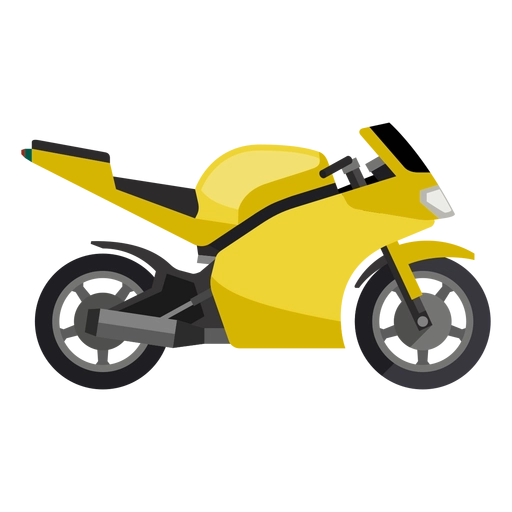
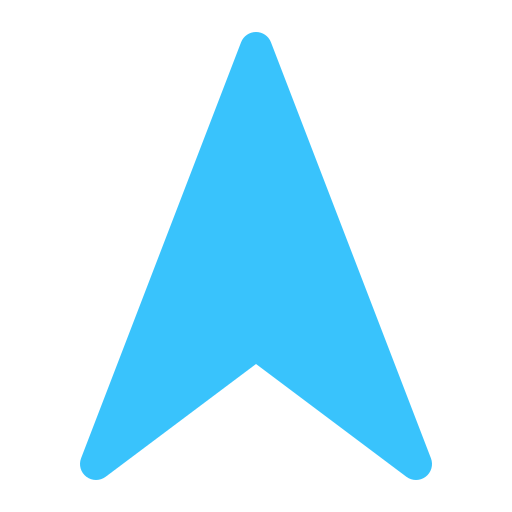
Update example and changelog for release

diff --git a/example/lib/main.dart b/example/lib/main.dart
@@ -23,7 +23,7 @@ class _MyAppState extends State<MyApp> {
   @override
   Widget build(BuildContext context) {
     return MaterialApp(
-      home: MapScreenRoute(bikeIcon: "assets/bike_icon.png", dropIcon: "assets/destination_icon.png", pickupIcon: "assets/pickup_icon.png", destinationLocation: LatLng(25.494203, 81.856172),  apiKey: '', onReach: (double distance) {  },),
+      home: MapScreenRoute(bikeIcon: "assets/bike_icon.png", dropIcon: "assets/destination_icon.png", pickupIcon: "assets/pickup_icon.png", destinationLocation: LatLng(25.494203, 81.856172),  apiKey: 'AIzaSyA_eZUKNL4zn38GjhZZXgkyIcb6QhOILJc', onReach: (double distance) {  },),
     );
   }
 }

diff --git a/CHANGELOG.md b/CHANGELOG.md
@@ -1,3 +1,10 @@
+## 0.1.3
+
+* Initial release with route drawing, bike animation, and real-time navigation features.
+* Fixed marker visibility during rides.
+* Improved smooth bearing calculations for bike movements.
+* Removed hardcoded API keys for security.
+
 ## 0.0.1
 
-* TODO: Describe initial release.
+* Initial project setup.
